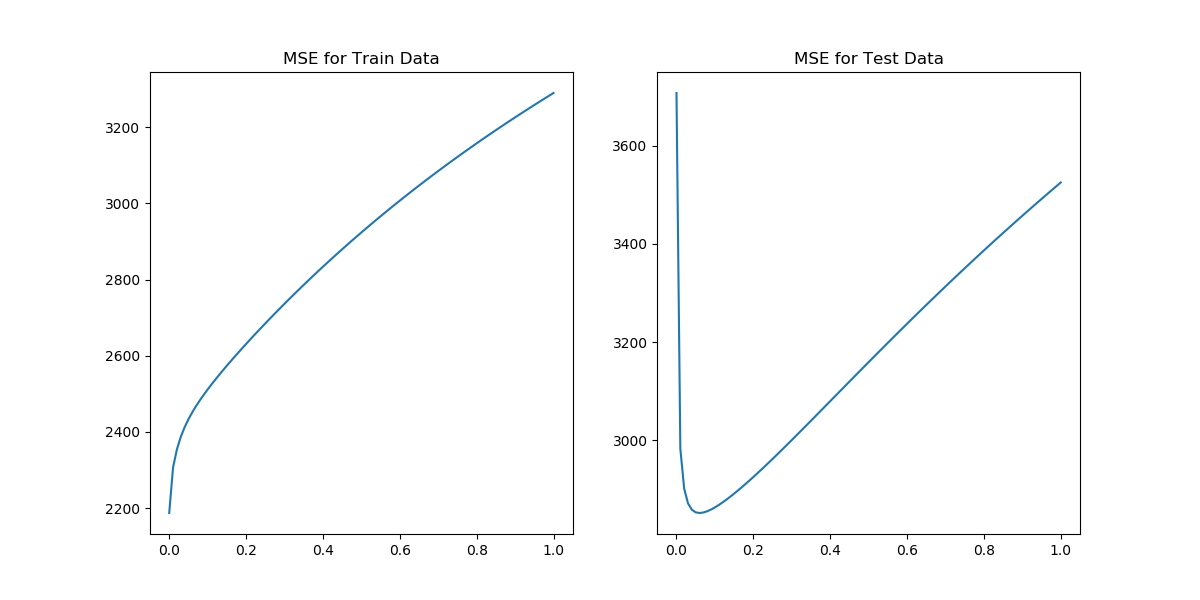
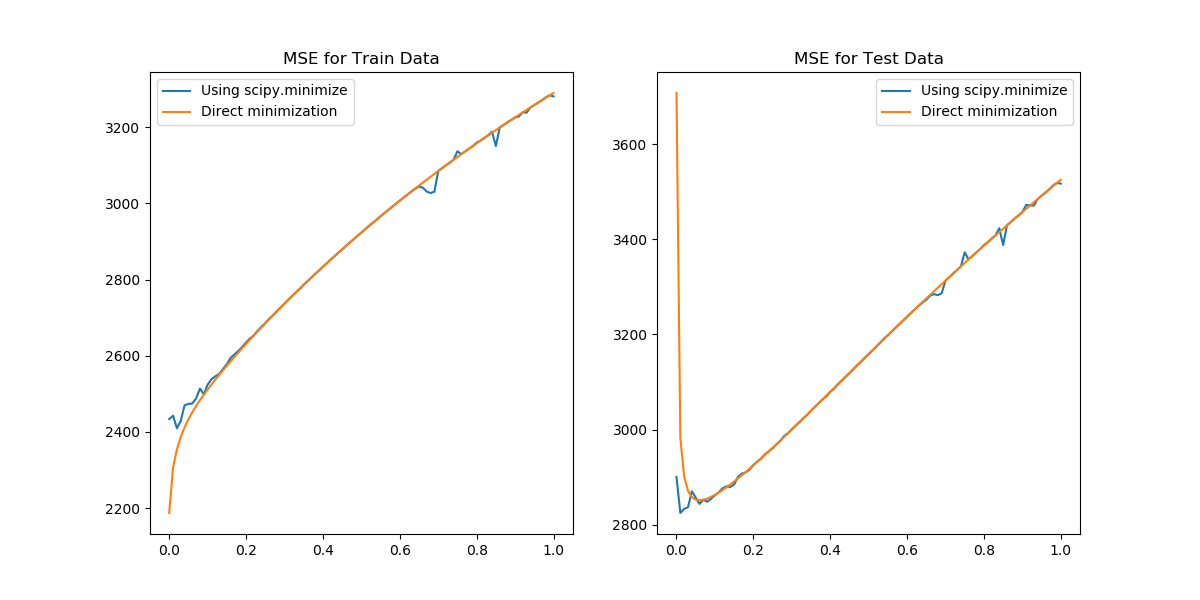
finished

diff --git a/script.py b/script.py
@@ -85,7 +85,7 @@ def testOLERegression(w,Xtest,ytest):
     # Inputs:
     # w = d x 1
     # Xtest = N x d
-    # ytest = X x 1
+    # ytest = N x 1
     # Output:
     # mse
     N = len(Xtest)
@@ -98,23 +98,29 @@ def regressionObjVal(w, X, y, lambd):
     # compute squared error (scalar) and gradient of squared error with respect
     # to w (vector) for the given data X and y and the regularization parameter
     # lambda
-    error = np.dot((y-np.dot(X,w)).T, (y-np.dot(X,w)))/2 + (lambd*np.dot(w.T, w))/2
-    w = w.reshape(-1,1)
-    error_grad = np.dot(np.transpose(X), (np.dot(X,w)-y)) + lambd * w
+    w1 = w.reshape(-1, 1)
+    error = np.dot((y-np.dot(X,w1)).T, (y-np.dot(X,w1)))/2 + ((lambd/2)*np.dot(w1.T, w1))
+    error_grad = np.dot(np.transpose(X), (np.dot(X,w1)-y)) + (lambd * w1)
+    error = error.flatten()
     error_grad = error_grad.flatten()
     # IMPLEMENT THIS METHOD
     return error, error_grad
-"""
+
 def mapNonLinear(x,p):
     # Inputs:                                                                  
     # x - a single column vector (N x 1)                                       
     # p - integer (>= 0)                                                       
     # Outputs:                                                                 
-    # Xp - (N x (p+1)) 
-	Xp = 1
+    # Xp - (N x (p+1))
+    x1 = x.reshape(-1, 1)
+    recur = x1
+    Xp =x1
+    for i in range(p) :
+	    recur = recur * x1
+	    Xp = np.append(Xp, recur, 1)
     # IMPLEMENT THIS METHOD
-	return Xp
-
+    return Xp
+"""
 # Main script
 
 # Problem 1
@@ -182,6 +188,7 @@ lambdas = np.linspace(0, 1, num=k)
 i = 0
 mses3_train = np.zeros((k,1))
 mses3 = np.zeros((k,1))
+
 for lambd in lambdas:
     w_l = learnRidgeRegression(X_i,y,lambd)
     mses3_train[i] = testOLERegression(w_l,X_i,y)
@@ -227,10 +234,10 @@ plt.title('MSE for Test Data')
 plt.legend(['Using scipy.minimize','Direct minimization'])
 plt.show()
 
-"""
+
 # Problem 5
 pmax = 7
-lambda_opt = 0 # REPLACE THIS WITH lambda_opt estimated from Problem 3
+lambda_opt = 0.06 # REPLACE THIS WITH lambda_opt estimated from Problem 3
 mses5_train = np.zeros((pmax,2))
 mses5 = np.zeros((pmax,2))
 for p in range(pmax):
@@ -241,7 +248,7 @@ for p in range(pmax):
     mses5[p,0] = testOLERegression(w_d1,Xdtest,ytest)
     w_d2 = learnRidgeRegression(Xd,y,lambda_opt)
     mses5_train[p,1] = testOLERegression(w_d2,Xd,y)
-	mses5[p,1] = testOLERegression(w_d2,Xdtest,ytest)
+    mses5[p,1] = testOLERegression(w_d2,Xdtest,ytest)
 
 fig = plt.figure(figsize=[12,6])
 plt.subplot(1, 2, 1)
@@ -253,4 +260,3 @@ plt.plot(range(pmax),mses5)
 plt.title('MSE for Test Data')
 plt.legend(('No Regularization','Regularization'))
 plt.show()
-"""
